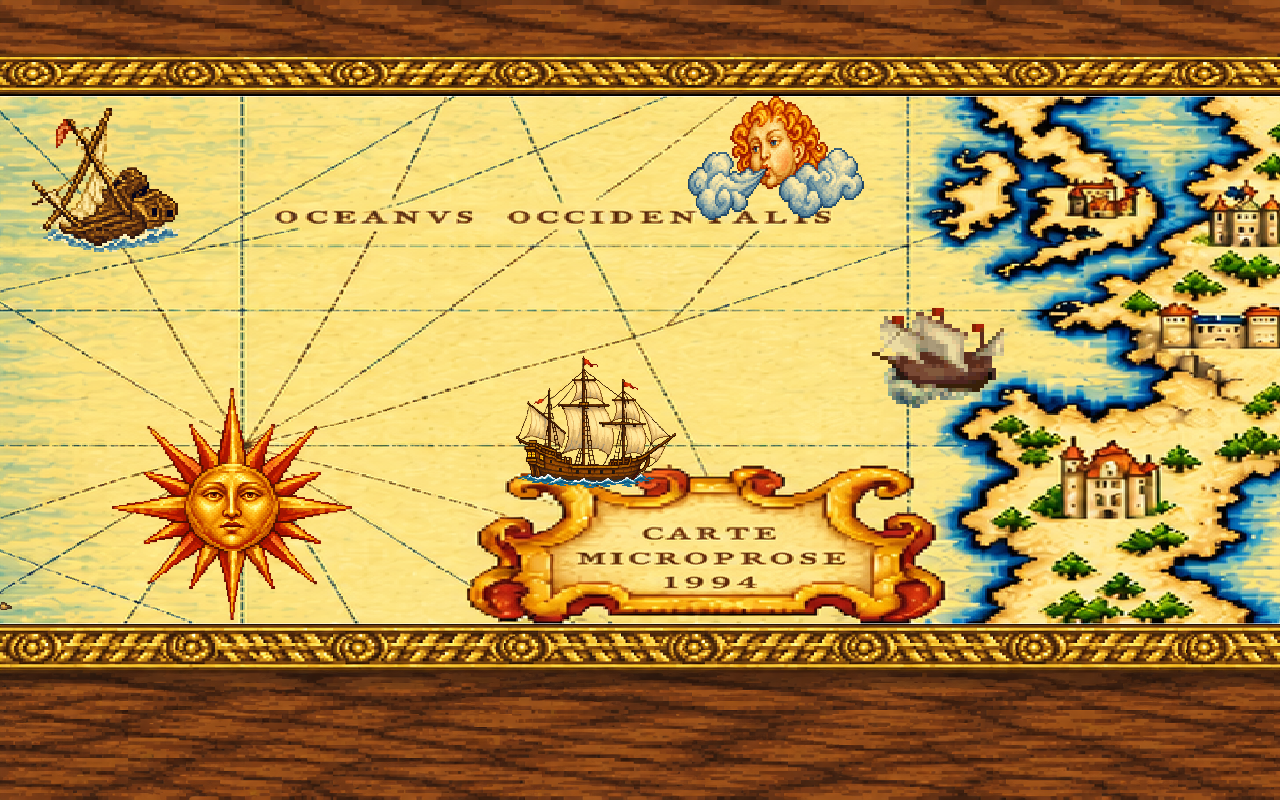
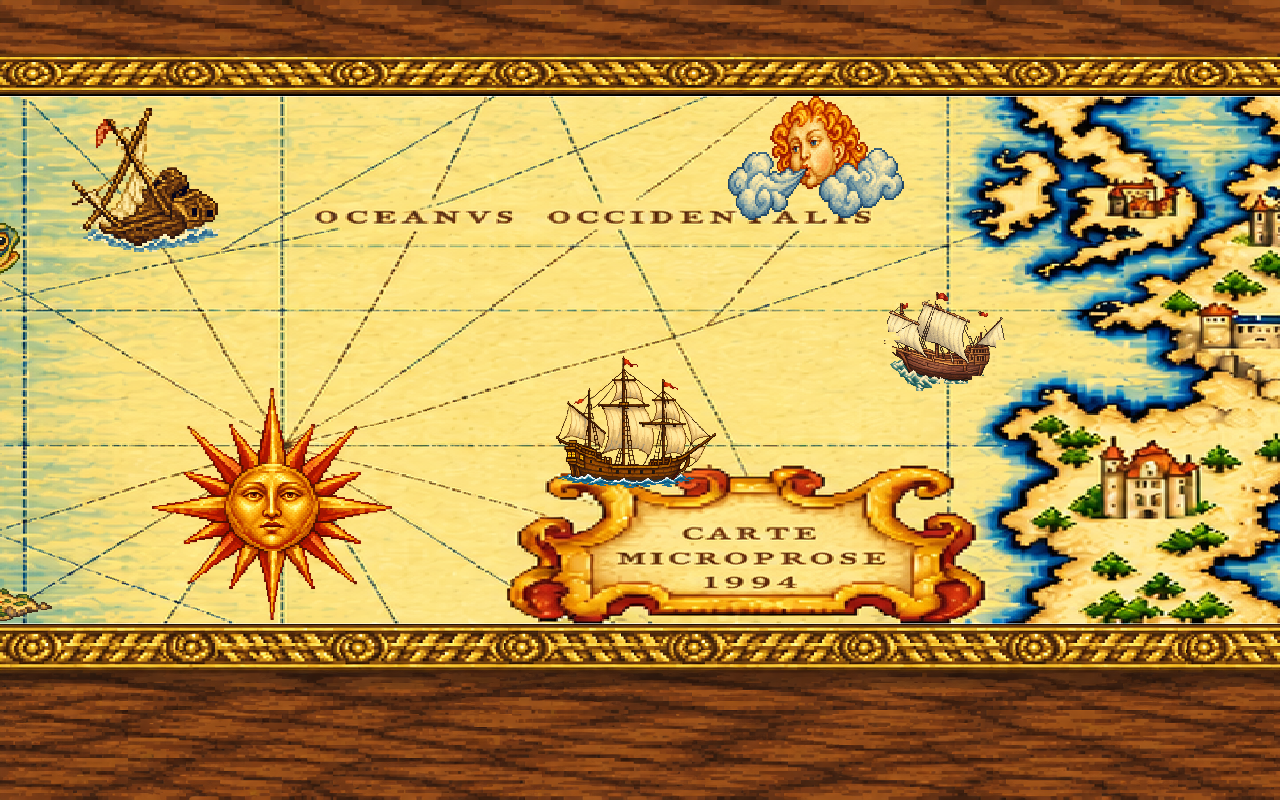
docs: refresh opening screenshot with HD ship animation

diff --git a/CONTEXT.md b/CONTEXT.md
@@ -6,7 +6,7 @@
 
 | 項目 | 目前狀態與證據 |
 |---|---|
-| 目前進行 | 開場船隻八幀已限定CONFORMED；接續其他開場動畫與未接線HD，並刷新README開場實拍。全量HD、完整五語與新版交付尚未完成。 |
+| 目前進行 | 開場船隻八幀已限定CONFORMED；README第十八張開場實拍已刷新為含HD船隻；接續其他開場動畫與未接線HD。全量HD、完整五語與新版交付尚未完成。 |
 | 開場船隻動畫HD | 規格069 R83開場船隻八幀與已發布PIK來源限定CONFORMED，新增8張生成原PNG，合計155張／清冊156檔、68Go／51綁定。66個具名Go零失敗／零skip，建置及go vet通過。192點完整原版來源／狀態、20張完整RGBA共20480000點及繼承32點／32768000個RGBA通過。17項正式GUI含14HD／3原圖，全部八幀、英文／繁中兩模式、船身游標與正常退場通過；106496個船隻RGBA、13205504個背景RGBA及17408000個X11遊戲區RGBA相同。游標移入恢復256格含124個船格，移出右邊界裁切為160格；重畫瞬間保留已發布第6幀。當次七筆實際輸入三側重播至35400000步，含play=true，CPU、完整RAM、IDX、DAC、WAV與存檔和實拍全等。156檔封裝白名單、31項新錯件及4項索引拒絕通過。原版288檔及舊147張原PNG與紀錄保持；1552列僅更新八個船幀及兩個PIK發布契約，其他1542列保持。OPENSUN與其他SS、中間淡入淡出、其餘17個PIK、51個未觀測ICONS候選、其他圖像、完整五語、影片與新版交付仍待完成。 審查86addada266145485d2aa2148a8e43a4b5cd2009ad5f1266bfef2ba6d9e9afdb，入口[規格069 R83](docs/spec/069-hd-menu-background-and-textures.md)。 |
 | 開場長圖與邊框HD | 規格069 R82開場長圖與邊框限定CONFORMED，新增13張生成原PNG，合計147張／清冊148檔、67Go／50綁定。88個具名Go零失敗／零skip，建置與go vet通過；192點原版來源／完整狀態、22張完整RGBA共22528000點與繼承32點／32768000個RGBA通過。正常GUI六項含三HD／三原圖，英文與繁中開場兩模式及離開開場通過；696320個邊框RGBA、1335296個長圖RGBA、2064384個原版前景／原圖模式RGBA及6144000個X11遊戲區RGBA相同。繁中滑鼠矩形256格已驗背景恢復，未知前景保持。當次四筆實際輸入三側重播至20000000步，含play=true，CPU、完整RAM、IDX、DAC、WAV與存檔和實拍全等。148檔封裝白名單與46項拒絕通過。原版288檔、舊134張原PNG及來源紀錄保持；1552列只更新1092／1179，其他1550列保持。開場SS動畫、未知移動船、中間淡入淡出、其餘17個PIK、51個未觀測ICONS候選、其他圖像、完整五語、影片與新版交付仍待完成。 審查228187c040df6071d840d1d70662518da0adb6913671cedeee3480290430ae4b，入口[規格069 R82](docs/spec/069-hd-menu-background-and-textures.md)。 |
 | 訊息視窗底紋HD | [規格069 R81](docs/spec/069-hd-menu-background-and-textures.md) 規格069 R81訊息木紋與字底限定CONFORMED。63個具名Go零失敗／零skip、建置及go vet通過；32點／31筆既有正常輸入至80600000步，獨立來源、32768000個完整RGBA及原版CPU／RAM／IDX／DAC／存檔一致。當次9項正常GUI含4HD、5原圖，繁中兩模式與文字內游標移入移出通過；47152個新底紋RGBA、2076格字底來源、5248個HD游標RGBA及9216000個X11遊戲區RGBA相同。24筆當次GUI輸入三側重播至63600000步，含play=true，與實拍的CPU、完整RAM、IDX、DAC、WAV及存檔一致。134張原PNG、清冊135檔、64Go／47綁定及原版288檔保持；只補OPENTILE／WOODTILE兩列來源發布證據，其他1550列及134筆連結保持。PARCH沒有發布正例，維持原有範圍；其他語言排版沿R80，未新增五語GUI信用。其餘圖像、人物、世界移動／戰鬥、事件、動畫、完整五語、實玩影片與新版交付仍待完成。 本機根hd-published-textures-r81，審查d78e8de1959f7df72da0b52b0d107476b5bb6d0177b9051d8087fc475c43d385。 |

diff --git a/README.md b/README.md
@@ -72,11 +72,11 @@ Linux需要X11、OpenGL與ALSA；FUSE不可用時，在AppImage檔名後先加 `
 以下是開發中的五語顯示層與 HD 畫面，尚未收進目前發行版。截圖來自實際遊戲視窗，
 來源與指紋見[截圖紀錄](docs/screenshots/readme-captures.json)。全量 HD 包含商品、資源、單位、
 其餘小圖像、特殊游標與動畫幀，目前仍在逐項開發。
-目前 147 張已接線的生成 HD 原圖與來源清冊收在 [graphics/](graphics/)。
+目前 155 張已接線的生成 HD 原圖與來源清冊收在 [graphics/](graphics/)。
 
 ![開場地圖、金色邊框與獨立物件的 HD 畫面](docs/screenshots/hd-opening-zh.png)
 
-開場：長圖、木紋與金色邊框已重繪。移動中的船與其他未接線動畫保留原版。
+開場：長圖、木紋、金色邊框與船隻八幀已重繪。其他未接線動畫保留原版。
 
 ![繁體中文殖民地畫面與 HD 建築、人物及商品小圖像](docs/screenshots/hd-colony-zh.png)
 
@@ -151,7 +151,7 @@ Linux需要X11、OpenGL與ALSA；FUSE不可用時，在AppImage檔名後先加 `
 所有建置、遊戲執行、分析與抓圖都在 Docker 容器內進行，需要自備合法原版。
 
 - [目前脈絡](CONTEXT.md)、[工作計畫](WORKLIST.md)（由 `docs/worklist.json` 產生）
-- [多語系、HD 切換與實際遊玩影片](docs/goals/186-display-settings-and-gameplay-video.md)：五語整包後端與設定保存已接線；十二種城內建築與景物、海洋與二十一種世界地形圖塊及碎片、一個人物、七十九種小圖像含百科船艦、貨車、砲台、寶藏、殖民者、步行與騎乘人物及受損砲台、一般游標、主選單背景與木紋、世界與城內木紋，城內紙質背景，以及新遊戲的難度人物卡、國家旗卡、自訂地圖十二張小圖背景、殖民地下方草地與碼頭、歐洲港口、八種報告背景、國會室內、計分頁及開場長圖與邊框已接正式HD顯示。開場移動船與其他動畫仍保留原版。全量圖像包含小圖像與動畫幀，仍在逐項開發，尚未收進目前發行版。
+- [多語系、HD 切換與實際遊玩影片](docs/goals/186-display-settings-and-gameplay-video.md)：五語整包後端與設定保存已接線；十二種城內建築與景物、海洋與二十一種世界地形圖塊及碎片、一個人物、七十九種小圖像含百科船艦、貨車、砲台、寶藏、殖民者、步行與騎乘人物及受損砲台、一般游標、主選單背景與木紋、世界與城內木紋，城內紙質背景，以及新遊戲的難度人物卡、國家旗卡、自訂地圖十二張小圖背景、殖民地下方草地與碼頭、歐洲港口、八種報告背景、國會室內、計分頁及開場長圖與邊框已接正式HD顯示。開場船隻八幀已接線，其他未接線動畫保留原版。全量圖像包含小圖像與動畫幀，仍在逐項開發，尚未收進目前發行版。
 - [規格](docs/spec/)與[各輪目標](docs/goals/)
 - [驗證矩陣](docs/verification-matrix.md)（`tools/verification_matrix.py` 產生）
 - [研究證據](RESEARCH-LOG.md)與[工作歷程](WORKLOG.md)

diff --git a/WORKLOG.md b/WORKLOG.md
@@ -6544,3 +6544,10 @@ README開場實拍接續刷新；其他開場SS、淡入淡出、其他圖像、
 所有長時間建置、GUI、重播與測試容器已退出，沒有持續背景工作；
 本批輸出UID/GID為1000:1000，find檢查未見root-owned檔案或*.md目錄。
 提交與推送依使用者既有授權，README刷新後再次核對工作樹及容器。
+
+
+R83 README收尾：程式與八張生成原PNG提交1ff23ce。
+以正式GUI的opening-ship-returned-zh-Hant實拍直接刷新既有hd-opening-zh.png，
+不改PNG編碼；1280×800、21800000步，X11遊戲區及來源原PNG一致。
+其他十七張原PNG與逐圖來源保持，readme-captures.json保留R82開場來源作歷史。
+README穩定摘要更新為155張與八幀動畫，不新增發行完成聲明。
